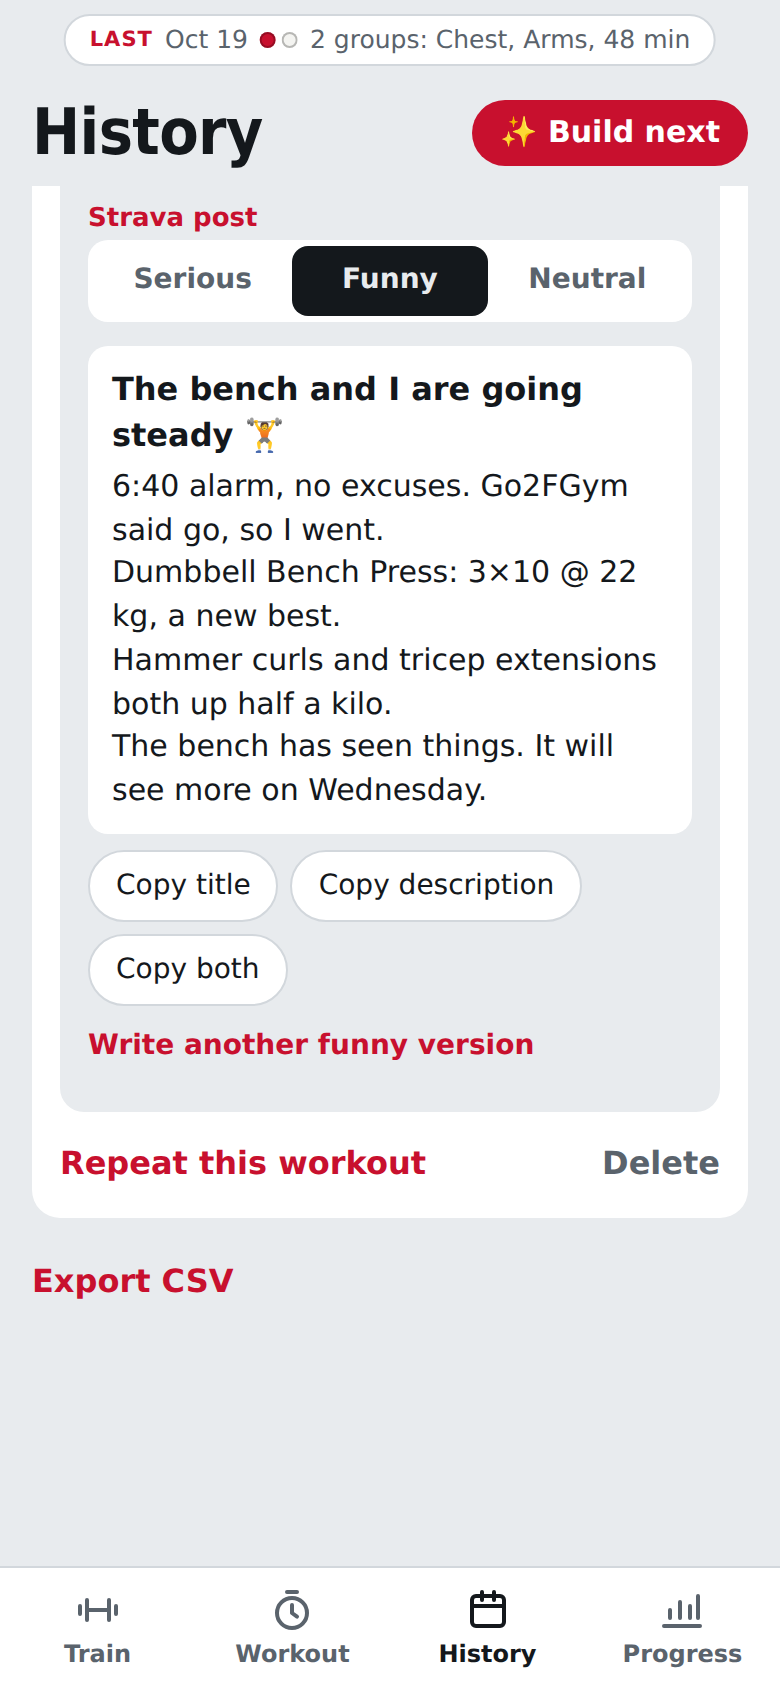
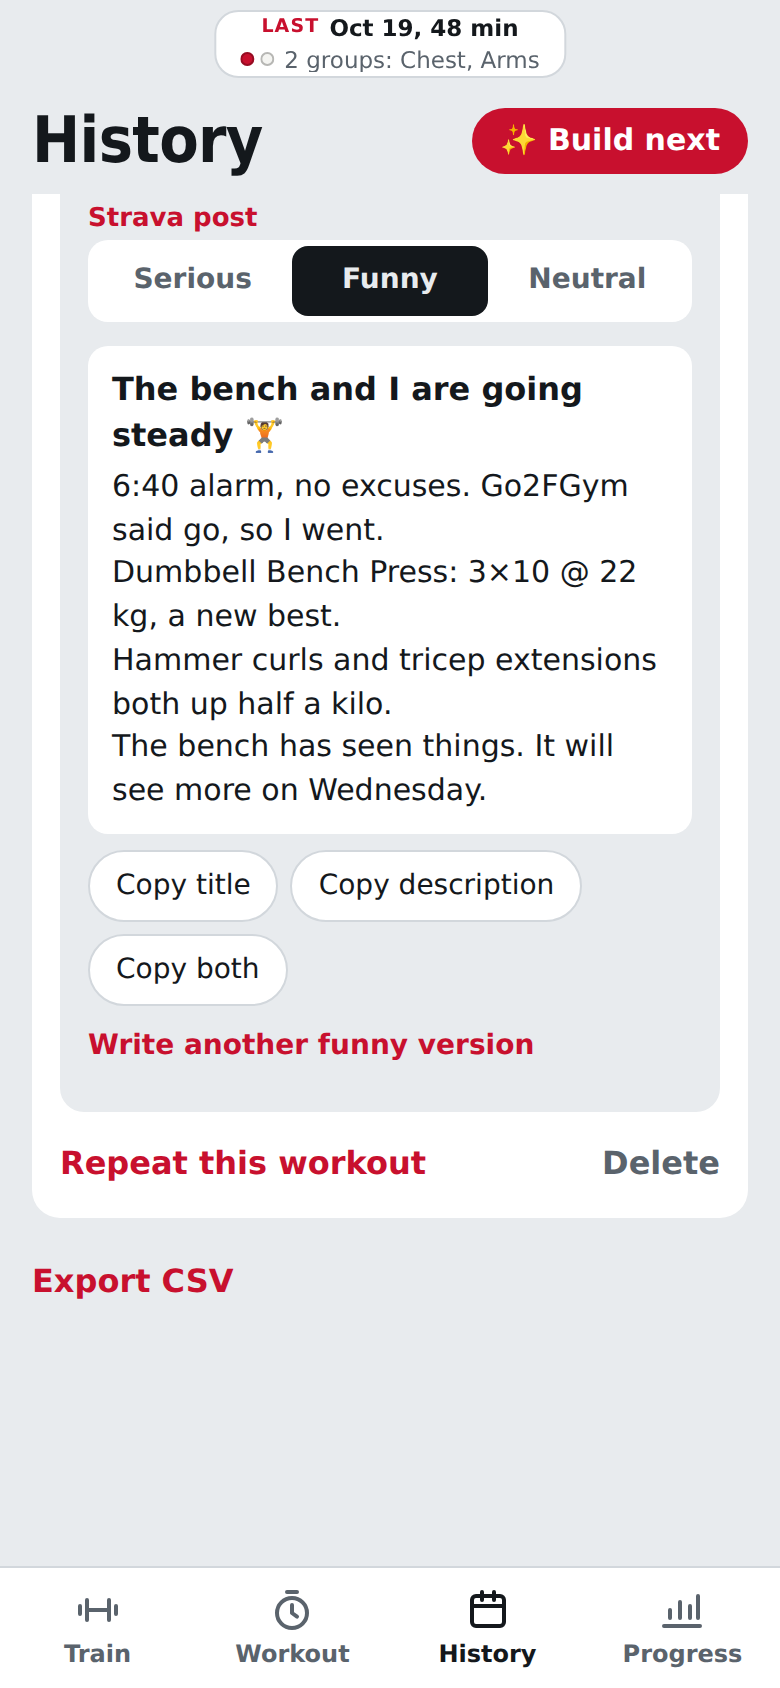
Move last-workout pill into Scriptable's Close bar row (clear of the camera), compact two-line layout; toasts appear below the bar

Changed region(s): [[0.0615, 0.0, 0.9538, 0.1232], [0.7692, 0.0, 0.8923, 0.0308], [0.1231, 0.0, 0.1846, 0.0308]]

diff --git a/Go2FGym.js b/Go2FGym.js
@@ -1493,15 +1493,28 @@ function webApp() {
     if (!s) { el.hidden = true; return; }
     const gs = sessionGroups(s);
     const mins = s.end ? minutesBetween(s.start, s.end) : null;
-    el.innerHTML = `<span class="last-k">Last</span>${esc(relDay(s.start))}<span class="dots">${dotsFor(gs)}</span>${gs.length ? `${plural(gs.length, "group")}: ${esc(gs.map((g) => g.label).join(", "))}` : plural(s.entries.length, "exercise")}${mins ? `, ${mins} min` : ""}`;
+    el.innerHTML = `<span class="last-1"><span class="last-k">Last</span>${esc(relDay(s.start))}${mins ? `, ${mins} min` : ""}</span>
+      <span class="last-2"><span class="dots">${dotsFor(gs)}</span>${gs.length ? `${plural(gs.length, "group")}: ${esc(gs.map((g) => g.label).join(", "))}` : plural(s.entries.length, "exercise")}</span>`;
     el.setAttribute("aria-label", `Last workout ${relDay(s.start)}: ${gs.map((g) => g.label).join(", ")}${mins ? `, ${mins} minutes` : ""}. Opens it in History.`);
     el.dataset.v = s.start;
     el.hidden = false;
   }
   function layoutBand() {
+    // Scriptable draws its Close/share bar over the top of the page, under the status bar.
+    // When that bar is there (tall inset), the pill sits in the middle of its row, between
+    // Close and share. Otherwise a slim row is added below the status bar for it.
     const probe = $("#sat");
     const inset = probe ? probe.offsetHeight : 0;
-    document.documentElement.style.setProperty("--band", `${Math.max(inset, 40)}px`);
+    const root = document.documentElement.style;
+    if (inset >= 80) {
+      root.setProperty("--band", `${inset}px`);
+      root.setProperty("--pill-top", `${inset - 22 - 17}px`);
+      root.setProperty("--pill-max", "min(62vw, calc(100vw - 150px))");
+    } else {
+      root.setProperty("--band", `${inset + 44}px`);
+      root.setProperty("--pill-top", `${inset + 5}px`);
+      root.setProperty("--pill-max", "calc(100vw - 24px)");
+    }
   }
 
   // ------------------------------------------------ Strava post
@@ -1918,12 +1931,14 @@ html,body{margin:0;background:var(--bg);color:var(--ink);font:16px/1.45 var(--bo
 body{padding:var(--band,env(safe-area-inset-top,0px)) 0 calc(150px + env(safe-area-inset-bottom,0px))}
 body::before{content:"";position:fixed;inset:0 0 auto;height:var(--band,env(safe-area-inset-top,0px));background:var(--bg);z-index:10}
 #sat{position:fixed;top:0;left:0;width:1px;height:env(safe-area-inset-top,0px);visibility:hidden;pointer-events:none}
-#last{position:fixed;z-index:12;left:50%;top:calc(var(--band,40px) / 2 - 13px);transform:translateX(-50%);display:flex;align-items:center;gap:6px;
-  height:26px;max-width:calc(100vw - 24px);padding:0 12px;border-radius:999px;background:var(--surface);border:1px solid var(--line);
-  font:500 12.5px/1 var(--body);color:var(--muted);white-space:nowrap;overflow:hidden;text-overflow:ellipsis}
+#last{position:fixed;z-index:12;left:50%;top:var(--pill-top,5px);transform:translateX(-50%);display:flex;flex-direction:column;align-items:center;justify-content:center;gap:3px;
+  height:34px;max-width:var(--pill-max,calc(100vw - 24px));padding:0 12px;border-radius:12px;background:var(--surface);border:1px solid var(--line);
+  font:500 11.5px/1.1 var(--body);color:var(--muted);white-space:nowrap;overflow:hidden}
 #last[hidden]{display:none}
-#last .last-k{font-weight:800;color:var(--accent);text-transform:uppercase;font-size:10.5px;letter-spacing:.05em}
-#last .dots{gap:3px}#last .dot{width:8px;height:8px}
+#last .last-1,#last .last-2{display:flex;align-items:center;gap:5px;max-width:100%;overflow:hidden;text-overflow:ellipsis}
+#last .last-1{color:var(--ink);font-weight:600}
+#last .last-k{font-weight:800;color:var(--accent);text-transform:uppercase;font-size:9.5px;letter-spacing:.06em}
+#last .dots{gap:3px;flex:none}#last .dot{width:7px;height:7px}
 .hbtn{flex:none;background:var(--accent);color:var(--accent-ink);font:700 15px/1 var(--body);padding:9px 14px;border-radius:999px;white-space:nowrap;text-align:center}
 .hbtn:disabled{opacity:.4}
 #app{max-width:640px;margin:0 auto;padding:0 16px 32px}
@@ -2109,7 +2124,7 @@ textarea.search{resize:none;line-height:1.4}
 .rest-time{font:800 28px/1 var(--display);font-variant-numeric:tabular-nums;margin-right:auto;min-width:3ch}
 #rest button{font-weight:700;font-size:15px;padding:6px 0;position:relative}
 #rest.go{background:var(--done);color:#fff}
-#toast{position:fixed;left:50%;top:calc(var(--band,40px) / 2 - 17px);transform:translate(-50%,-8px);max-width:88vw;padding:8px 16px;border-radius:12px;
+#toast{position:fixed;left:50%;top:calc(var(--band,44px) + 8px);transform:translate(-50%,-8px);max-width:88vw;padding:8px 16px;border-radius:12px;
   background:var(--ink);color:var(--bg);font-size:15px;font-weight:600;z-index:30;pointer-events:none;text-align:center;
   opacity:0;visibility:hidden;transition:opacity .2s ease,transform .2s ease,visibility .2s}
 #toast.show{opacity:1;visibility:visible;transform:translate(-50%,0)}#toast.err{background:var(--accent);color:#fff}
